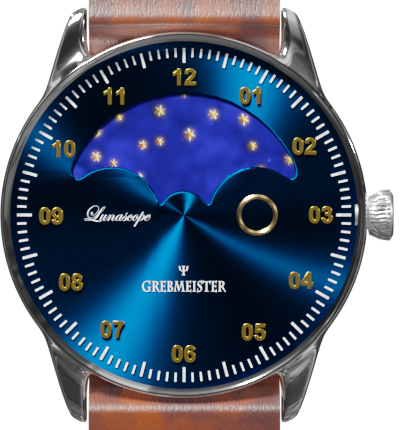
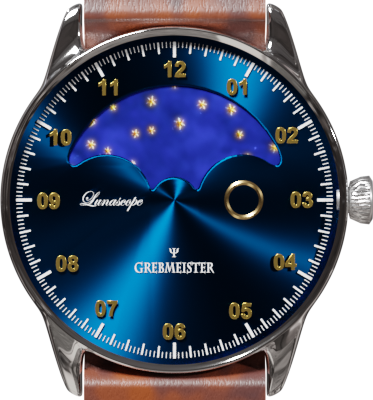
kosmetyka - przy okazji zmiany cyferblatu Lunascope

Changed region(s): [[0.0, 0.0, 1.0, 1.0], [0.5898, 0.45, 0.7078, 0.57], [0.2064, 0.48, 0.3834, 0.54]]

diff --git a/mainwindow.cpp b/mainwindow.cpp
@@ -47,7 +47,7 @@
 #include "tpreferred_hands.h"
 
 
-#define  KRZYZE_PROWADZACE      false //     true  //
+#define  KRZYZE_PROWADZACE      true  // false //
 
 #define COTO  ;  cout << "File = " << __FILE__ << "Linia = " << __LINE__ << endl;
 
@@ -1738,7 +1738,7 @@ void MainWindow::paintEvent(QPaintEvent *)
             // auto loc_long = date.toString(QLocale::LongFormat);
             auto loc_long = QLocale().toString(date, QLocale::LongFormat);
 
-            auto dzien_tyg =  date.toString("dddd") ;  // dzien tygodnia
+            auto dzien_tyg =  QLocale().toString(date, "dddd") ;  // dzien tygodnia
             // czy w tym jest już dzień tygodnia?
             bool flag_juz_jest = true;
             if(loc_long.contains(dzien_tyg) == false )
@@ -2469,7 +2469,7 @@ void MainWindow::wywolanie_okna_opcji()
 
     if(dlg->exec() == QDialog::Accepted)
     {
-        COTO;
+        // COTO;
         if(flaga__byl_tryb_random)
         {
             auto odp =  QMessageBox::warning ( this,
@@ -2482,7 +2482,7 @@ void MainWindow::wywolanie_okna_opcji()
         zapis_opcji_na_dysku();
     }
     delete dlg;
-COTO;
+    // COTO;
     this->setWindowOpacity(przezroczystosc/255.0);
 
 //        cout << "Po dialogu opcji jezyk nr  " << nr_jezyka << endl;
@@ -2496,7 +2496,7 @@ COTO;
         cout << "zamkniecie okna opcji z restartem  (przed close )" << endl;
         close();
     }
-    COTO;
+   // COTO;
 }
 
 //*********************************************************************************************************
@@ -6061,9 +6061,9 @@ void MainWindow::wstepne_wpisanie_cyferblatow()
                                       1,  // dlugosc sekundnika (w % promienia tarczy)
                                       QColor(250, 10, 10),   // kolor wskaz sekundnika
 
-                                      184, 215,  // pozycja srodka tarczy
+                                      175, 200,  // pozycja srodka tarczy
                                       0.8,  0.8,   // skalowanie zaślepki
-                                      150,  // promien_ tarczy
+                                      145,  // promien_ tarczy
 
                                       -0, -0,  // translacja do odrebnej osi sekundnika (x,y w % promienia)
 
@@ -6072,7 +6072,7 @@ void MainWindow::wstepne_wpisanie_cyferblatow()
 
                                       QPoint(0, 70),    // pozycja AM_PM ( % z dlug promienia)
                                       QColor(100,100,20),   // kolor AM_PM
-                                      QPoint(0, 133),    // pozycja pełnej daty ( % z dlug promienia)
+                                      QPoint(0, 128),    // pozycja pełnej daty ( % z dlug promienia)
                                       QColor(50, 50, 200),   // kolor pełnej daty
 
                                       QPoint(41, -2),    // pozycja datownika % z dlug promienia
@@ -8892,7 +8892,7 @@ void MainWindow::sprawdzenie_alarmow()
                     cout << "!!!!!! Przed funkcja play !!!!!!!!" << al.muzyka << endl;
 
                     //QSound::play(al.muzyka.c_str());
-                    if(al.player ==nullptr)   al.player = new QMediaPlayer;
+                    // if(al.player ==nullptr)   al.player = new QMediaPlayer;
                     // ...
                     // al.player->setMedia(QUrl::fromLocalFile(al.muzyka.c_str()) );
                     // al.player->setVolume(50);
